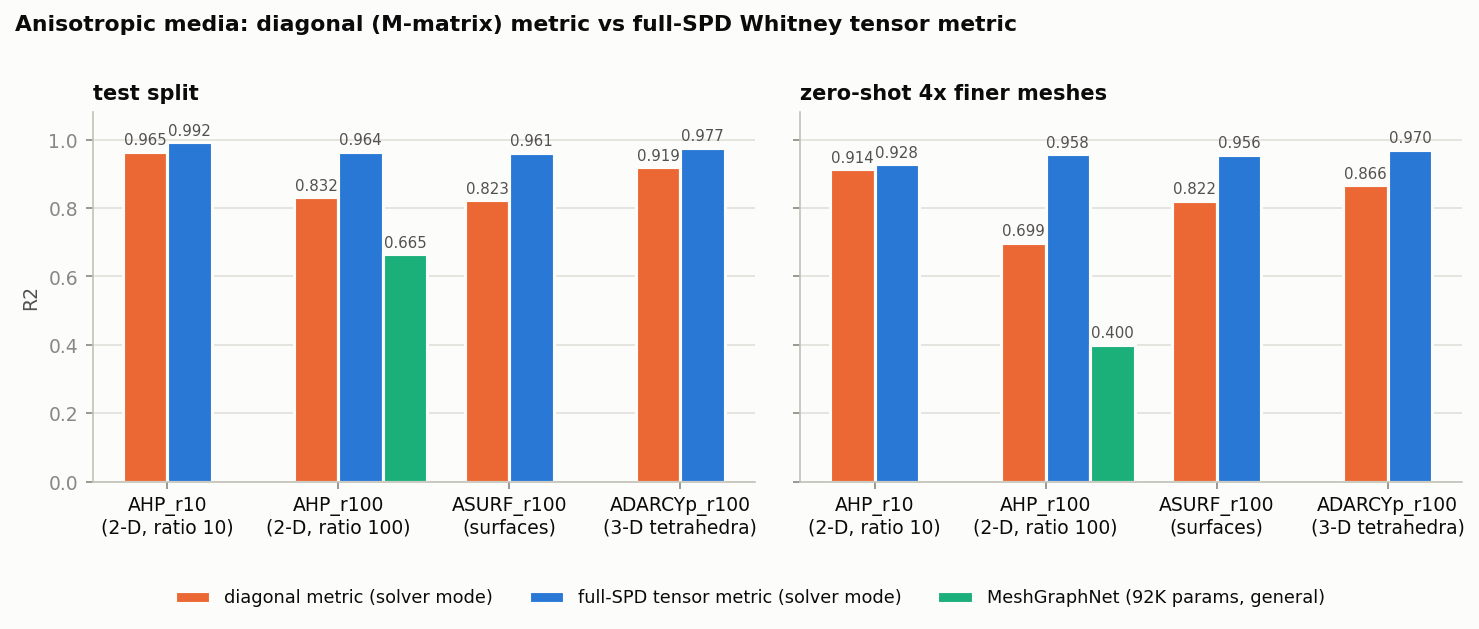
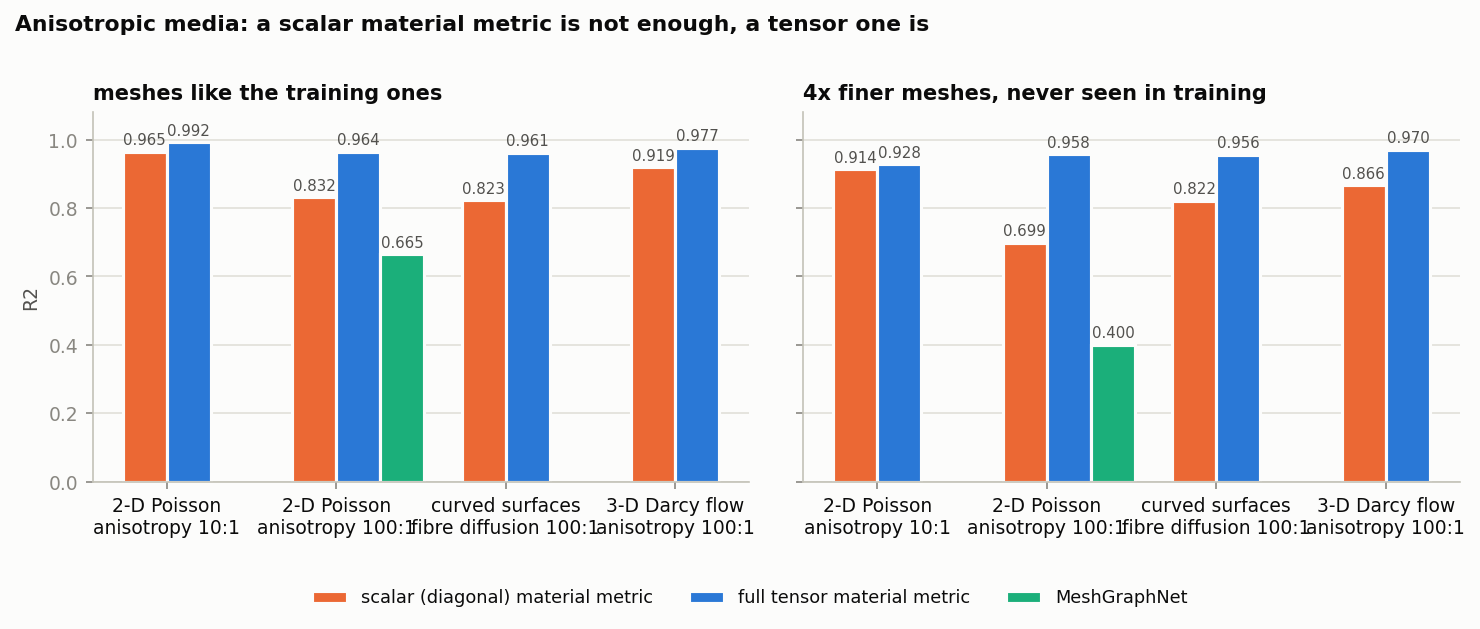
figures: plain-language labels, Chinese versions

diff --git a/scripts/make_figures.py b/scripts/make_figures.py
@@ -90,14 +90,14 @@ def _hbar_pairs(ax, labels, a, b, la, lb, ca, cb, xmax=1.0):
 # ================================================================================================================
 def fig1(res: str, out: str) -> None:
     plt = _plt()
-    rows = [("v2 solver mode, learned tensor metric", "cab75/stage3/HP_k100_S3c_solver_tensor_learn"),
-            ("v2 solver mode, learned diagonal metric", "cab75/stage3/HP_k100_S3c_solver_diag_learn"),
-            ("v2 general stack, resolvent layer", "cab75/stage2/HP_k100_diag-resolvent_s42"),
-            ("v2 general stack, polynomial layers", "cab75/new/HP_k100_s42"),
-            ("dec_fixed (v2 stack, frozen DEC star)", "cab16/baselines/HP_k100_native/dec_fixed_s42"),
-            ("MeshGraphNet, v2 budget", "cab16/baselines/HP_k100_native/mgn_s42"),
-            ("MeshGraphNet, v1 budget", "cab16/baselines_v1budget/HP_k100_native/mgn_s42"),
-            ("EGNN, v2 budget", "cab16/baselines/HP_k100_native/egnn_s42")]
+    rows = [("Ours, physics-solver mode, learned tensor material", "cab75/stage3/HP_k100_S3c_solver_tensor_learn"),
+            ("Ours, physics-solver mode, learned scalar material", "cab75/stage3/HP_k100_S3c_solver_diag_learn"),
+            ("Ours, general network with an implicit (solve) layer", "cab75/stage2/HP_k100_diag-resolvent_s42"),
+            ("Ours, general network, local layers only", "cab75/new/HP_k100_s42"),
+            ("Ours, geometry only (no material learning)", "cab16/baselines/HP_k100_native/dec_fixed_s42"),
+            ("MeshGraphNet, same size", "cab16/baselines/HP_k100_native/mgn_s42"),
+            ("MeshGraphNet, 5x larger", "cab16/baselines_v1budget/HP_k100_native/mgn_s42"),
+            ("EGNN", "cab16/baselines/HP_k100_native/egnn_s42")]
     labels, a, b = [], [], []
     for lab, d in rows:
         r = _load(res, os.path.join(d, "result.json"))
@@ -107,9 +107,9 @@ def fig1(res: str, out: str) -> None:
         a.append(_r2(r))
         b.append(_r2(r, "fine"))
     fig, ax = plt.subplots(figsize=(8.6, 4.6))
-    _hbar_pairs(ax, labels, a, b, "test split (training resolution)", "zero-shot 4x finer meshes", BLUE, ORANGE)
-    ax.set_xlabel("R2 (HP_k100: heterogeneous Poisson, contrast 100, variable meshes)")
-    ax.set_title("Resolution transfer needs the metric to be the physics", loc="left", pad=26)
+    _hbar_pairs(ax, labels, a, b, "meshes like the training ones", "4x finer meshes, never seen in training", BLUE, ORANGE)
+    ax.set_xlabel("accuracy (R2) on heterogeneous-media Poisson problems, conductivity contrast 100")
+    ax.set_title("Accuracy at the training resolution and on 4x finer meshes", loc="left", pad=26)
     ax.legend(loc="lower left", bbox_to_anchor=(0.0, 1.0), ncol=2, borderaxespad=0.3)
     _save(fig, out, "fig1_hp_k100_transfer.png")
     plt.close(fig)
@@ -117,20 +117,20 @@ def fig1(res: str, out: str) -> None:
 
 def fig3(res: str, out: str) -> None:
     plt = _plt()
-    tasks = [("AHP_r10\n(2-D, ratio 10)", "cab75/aniso/AHP_r10_diag-solver_s42", "cab75/aniso/AHP_r10_tensor-solver_s42"),
-             ("AHP_r100\n(2-D, ratio 100)", "cab75/aniso/AHP_r100_diag-solver_s42",
+    tasks = [("2-D Poisson\nanisotropy 10:1", "cab75/aniso/AHP_r10_diag-solver_s42", "cab75/aniso/AHP_r10_tensor-solver_s42"),
+             ("2-D Poisson\nanisotropy 100:1", "cab75/aniso/AHP_r100_diag-solver_s42",
               "cab75/aniso/AHP_r100_tensor-solver_lr3e-4_s42"),
-             ("ASURF_r100\n(surfaces)", "cab75/aniso_solver/ASURF_r100_diag-solver_s42",
+             ("curved surfaces\nfibre diffusion 100:1", "cab75/aniso_solver/ASURF_r100_diag-solver_s42",
               "cab75/aniso_solver/ASURF_r100_tensor-solver_s42"),
-             ("ADARCYp_r100\n(3-D tetrahedra)", "cab16/aniso/ADARCYp_r100_n1500_diag-solver_s42",
+             ("3-D Darcy flow\nanisotropy 100:1", "cab16/aniso/ADARCYp_r100_n1500_diag-solver_s42",
               "cab16/aniso/ADARCYp_r100_n1500_tensor-solver_s42")]
     mgn = _load(res, "cab16/aniso/AHP_r100_mgn_s42/result.json")
     fig, axes = plt.subplots(1, 2, figsize=(10.0, 3.9), sharey=True)
     w = 0.26
-    for ax, key, title in ((axes[0], "test", "test split"), (axes[1], "fine", "zero-shot 4x finer meshes")):
+    for ax, key, title in ((axes[0], "test", "meshes like the training ones"), (axes[1], "fine", "4x finer meshes, never seen in training")):
         x = np.arange(len(tasks))
-        for j, (lab, col, off) in enumerate((("diagonal metric (solver mode)", ORANGE, -w / 2),
-                                            ("full-SPD tensor metric (solver mode)", BLUE, w / 2))):
+        for j, (lab, col, off) in enumerate((("scalar (diagonal) material metric", ORANGE, -w / 2),
+                                            ("full tensor material metric", BLUE, w / 2))):
             vals = [_r2(_load(res, os.path.join(t[1 + j], "result.json")), key) for t in tasks]
             v = np.array([np.nan if q is None else q for q in vals], dtype=float)
             ax.bar(x + off, np.nan_to_num(v), width=w, color=col, edgecolor=SURFACE, linewidth=1.5, label=lab)
@@ -140,7 +140,7 @@ def fig3(res: str, out: str) -> None:
         mv = _r2(mgn, key)
         if mv is not None:
             ax.bar([1 + 1.5 * w], [mv], width=w, color=AQUA, edgecolor=SURFACE, linewidth=1.5,
-                   label="MeshGraphNet (92K params, general)")
+                   label="MeshGraphNet")
             ax.text(1 + 1.5 * w, mv + 0.012, f"{mv:.3f}", ha="center", va="bottom", fontsize=7.2, color=INK2)
         ax.set_xticks(x)
         ax.set_xticklabels([t[0] for t in tasks], color=INK)
@@ -150,7 +150,7 @@ def fig3(res: str, out: str) -> None:
     axes[0].set_ylabel("R2")
     handles, labels = axes[0].get_legend_handles_labels()
     fig.legend(handles, labels, loc="lower center", ncol=3, bbox_to_anchor=(0.5, -0.06))
-    fig.suptitle("Anisotropic media: diagonal (M-matrix) metric vs full-SPD Whitney tensor metric", x=0.01, ha="left",
+    fig.suptitle("Anisotropic media: a scalar material metric is not enough, a tensor one is", x=0.01, ha="left",
                  fontsize=10.5, fontweight="semibold")
     fig.tight_layout(rect=(0, 0.05, 1, 0.97))
     _save(fig, out, "fig3_aniso_diag_vs_tensor.png")
@@ -160,9 +160,9 @@ def fig3(res: str, out: str) -> None:
 def fig5(res: str, out: str) -> None:
     plt = _plt()
     base = _load(res, "cab75/new/T6f_s42/result.json")
-    pts = [("training mesh\n(1024 vertices, test split)", _r2(base))]
-    for tag, lab in (("mesh7_n1024", "new mesh, seed 7\n(1024)"), ("mesh11_n1024", "new mesh, seed 11\n(1024)"),
-                     ("mesh7_n4096", "4x finer new mesh\n(4096)"), ("mesh7_n256", "4x coarser new mesh\n(256)")):
+    pts = [("the mesh it was\ntrained on", _r2(base))]
+    for tag, lab in (("mesh7_n1024", "a new random mesh\n(same size)"), ("mesh11_n1024", "another new mesh\n(same size)"),
+                     ("mesh7_n4096", "a new mesh,\n4x finer"), ("mesh7_n256", "a new mesh,\n4x coarser")):
         pts.append((lab, _r2(_load(res, f"cab75/transfer/T6f_s42/transfer_T6f_{tag}.json"))))
     fig, ax = plt.subplots(figsize=(7.6, 3.2))
     x = np.arange(len(pts))
@@ -175,9 +175,9 @@ def fig5(res: str, out: str) -> None:
     ax.set_xticks(x)
     ax.set_xticklabels([p[0] for p in pts], color=INK, fontsize=8)
     ax.set_ylim(0.99, 1.0015)
-    ax.set_ylabel("R2 (uncentred, face flux)")
+    ax.set_ylabel("accuracy (R2)")
     ax.grid(axis="x", visible=False)
-    ax.set_title("T6f: one trained model evaluated zero-shot on unseen meshes and resolutions (v1: not applicable)",
+    ax.set_title("Gauge-field task: one trained model, evaluated without retraining on meshes it has never seen",
                  loc="left", fontsize=9.5)
     _save(fig, out, "fig5_t6f_mesh_transfer.png")
     plt.close(fig)
@@ -185,10 +185,9 @@ def fig5(res: str, out: str) -> None:
 
 def fig6(res: str, out: str) -> None:
     plt = _plt()
-    specs = [("DYNfix, mass projection", "cab75/suite/DYNfix_s42/rollout_DYNfix_proj.json", BLUE),
-             ("DYNfix, no projection", "cab75/suite/DYNfix_s42/rollout_DYNfix.json", ORANGE),
-             ("DYN (variable meshes), no projection", "cab75/suite/DYN_s42/rollout_DYN.json", AQUA),
-             ("DYN (variable meshes), mass projection", "cab75/suite/DYN_s42/rollout_DYN_proj.json", YELLOW)]
+    specs = [("ours, with exact mass conservation enforced", "cab75/suite/DYNfix_s42/rollout_DYNfix_proj.json", BLUE),
+             ("ours, plain autoregressive", "cab75/suite/DYNfix_s42/rollout_DYNfix.json", ORANGE),
+]
     fig, ax = plt.subplots(figsize=(7.6, 4.0))
     lo = -1.25
     pers = None
@@ -204,10 +203,10 @@ def fig6(res: str, out: str) -> None:
         if y[-1] < lo:
             ax.annotate(f"{y[-1]:.1f} at step {int(h[-1])}", xy=(h[-1], lo), xytext=(h[-1] * 0.55, lo + 0.18),
                         fontsize=7.5, color=INK2, arrowprops=dict(arrowstyle="-", color=MUTED, lw=0.8))
-        if pers is None and "DYNfix" in lab:
+        if pers is None and "DYNfix" in rel:
             pers = (h, np.array(r["persistence_R2"], dtype=float))
     if pers is not None:
-        ax.plot(pers[0], np.clip(pers[1], lo, None), color=MUTED, linewidth=1.5, label="persistence baseline (DYNfix)")
+        ax.plot(pers[0], np.clip(pers[1], lo, None), color=MUTED, linewidth=1.5, label="no-change baseline (repeat the last state)")
     ax.set_xscale("log")
     ax.set_xlim(1, 100)
     from matplotlib.ticker import FixedLocator, NullFormatter, ScalarFormatter
@@ -216,9 +215,9 @@ def fig6(res: str, out: str) -> None:
     ax.xaxis.set_minor_formatter(NullFormatter())
     ax.set_ylim(lo, 1.05)
     ax.axhline(0, color=AXIS, linewidth=0.8)
-    ax.set_xlabel("rollout step (autoregressive, 100-step test trajectories)")
-    ax.set_ylabel("R2 (curves clipped at -1.25)")
-    ax.set_title("Advection-diffusion rollouts: mass drift is the dominant long-horizon error", loc="left")
+    ax.set_xlabel("time steps predicted ahead (each step feeds the previous prediction)")
+    ax.set_ylabel("accuracy (R2)")
+    ax.set_title("Advection-diffusion, 100-step forecasts on a fixed mesh", loc="left")
     ax.legend(loc="lower left")
     _save(fig, out, "fig6_dyn_rollouts.png")
     plt.close(fig)
@@ -255,10 +254,10 @@ def fig2(res: str, out: str, tensor_run: str, general_run: str, device: str = "c
     recover(general_run, n=n, device=device, plots=False, out_dir=tmp, samples_out=sg)
     fig, axes = plt.subplots(1, 3, figsize=(11.2, 3.6))
     lt = st["layers"][0]
-    _hex(axes[0], st["t_face"], lt["hld"], "solver mode, learned tensor: faces", "true log sigma (face)",
-         "learned log det(sigma_f) / 2")
-    _hex(axes[1], st["t_edge"], lt["kappa"], "solver mode, learned tensor: edge action", "true log sigma (edge)",
-         "learned log mean_f t^T sigma_f t")
+    _hex(axes[0], st["t_face"], lt["hld"], "physics-solver mode, per triangle", "true conductivity (log)",
+         "learned conductivity (log)")
+    _hex(axes[1], st["t_edge"], lt["kappa"], "physics-solver mode, per edge", "true conductivity (log)",
+         "learned conductivity (log)")
     # general stack: the layer whose diagonal metric correlates most with the material (best case)
     best, best_r = None, -1.0
     for l, d in sg["layers"].items():
@@ -269,9 +268,9 @@ def fig2(res: str, out: str, tensor_run: str, general_run: str, device: str = "c
         rr = abs(np.corrcoef(x[ok], y[ok])[0, 1])
         if rr > best_r:
             best, best_r = l, rr
-    _hex(axes[2], sg["t_edge"], sg["layers"][best]["lr"], f"general stack (diag + resolvent), best layer {best}",
-         "true log sigma (edge)", "learned log(H_1 / star_1)")
-    fig.suptitle("HP_k100: the learned metric is the material only when the architecture solves with it "
+    _hex(axes[2], sg["t_edge"], sg["layers"][best]["lr"], "general network, its best layer",
+         "true conductivity (log)", "learned metric (log)")
+    fig.suptitle("Is the learned metric the true material?  Yes in physics-solver mode, no in a general network "
                  "(first 32 test samples, physical units)", x=0.01, ha="left", fontsize=10, fontweight="semibold")
     fig.tight_layout(rect=(0, 0, 1, 0.94))
     _save(fig, out, "fig2_metric_recovery.png")
@@ -340,7 +339,7 @@ def fig4(res: str, out: str, run: str, device: str = "cpu", sample: int = 0,
         ax.set_xticks([])
         ax.set_yticks([])
     cb = fig.colorbar(ec, cax=axes[2])
-    cb.set_label("log eigenvalue ratio (anisotropy)")
+    cb.set_label("anisotropy strength (log ratio)")
     cb.outline.set_visible(False)
     ax = axes[3]
     pos3 = ax.get_position()
@@ -352,12 +351,12 @@ def fig4(res: str, out: str, run: str, device: str = "cpu", sample: int = 0,
     ax.text(med + 2, ax.get_ylim()[1] * 0.92, f"median {med:.1f} deg\n(random directions: 45)", fontsize=8,
             color=INK2, va="top")
     ax.set_xlim(0, 90)
-    ax.set_xlabel("principal-direction error (deg)")
-    ax.set_ylabel("triangles (true ratio > 10)")
-    ax.set_title("direction agreement on the whole mesh", loc="left", fontsize=9)
+    ax.set_xlabel("direction error (degrees)")
+    ax.set_ylabel("number of triangles")
+    ax.set_title("how well the learned fibre direction matches the true one (whole mesh)", loc="left", fontsize=9)
     ax.grid(axis="x", visible=False)
-    fig.suptitle(f"AHP_r100 test mesh ({K.n[0]} vertices, window [{x0}, {x1}]^2): per-triangle tensors as ellipses "
-                 "(major axis along the fibre, aspect sqrt(ratio))", x=0.01, ha="left", fontsize=10,
+    fig.suptitle("Anisotropic 2-D Poisson (ratio 100): the learned material tensor of each triangle, drawn as an ellipse, "
+                 "next to the true one", x=0.01, ha="left", fontsize=10,
                  fontweight="semibold")
     _save(fig, out, "fig4_tensor_ellipses.png")
     plt.close(fig)
